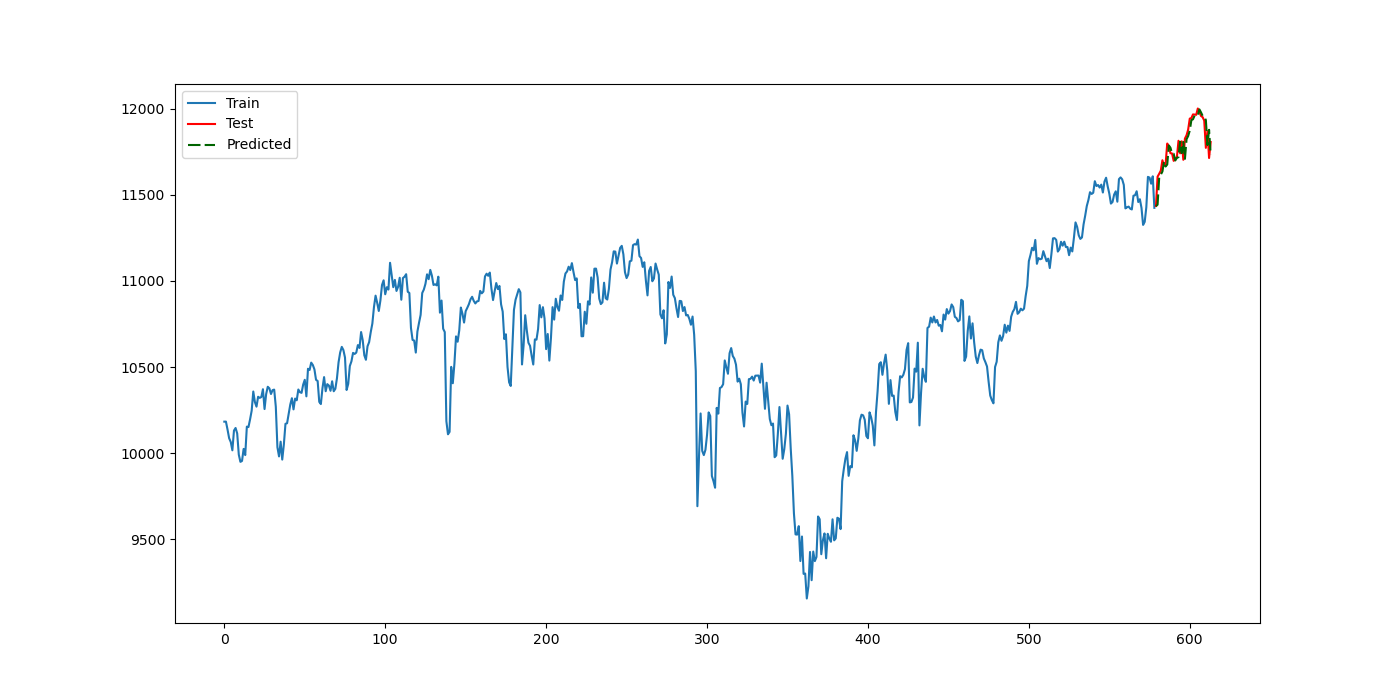
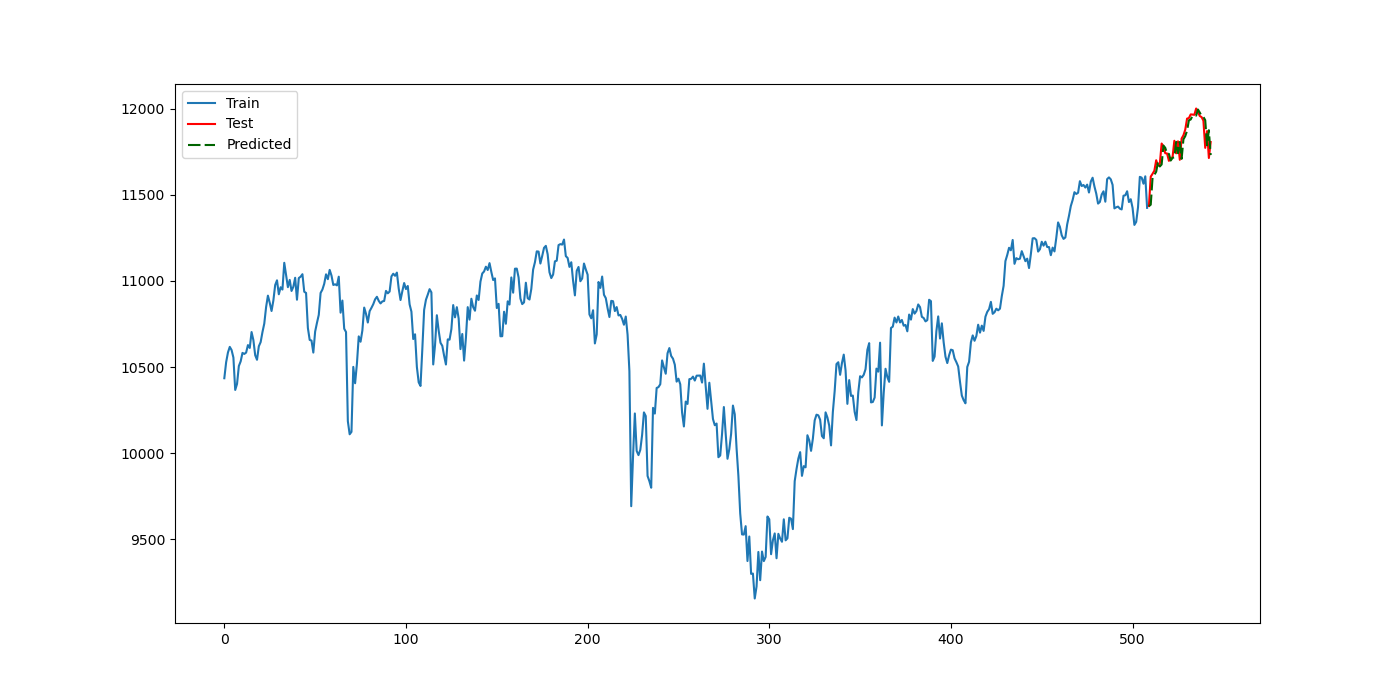
updating window size

diff --git a/code/Ass2/Ass2-Q4.py b/code/Ass2/Ass2-Q4.py
@@ -152,8 +152,8 @@ res = grangers_causation_matrix(
 )
 print("[INFO] saving Results of Granger Causality test on file...")
 with open(os.path.join(tbl_dir, a + "Granger_results.tex"), "w") as tf:
-    tf.write(res.to_latex(index=True))
-print(res)
+    tf.write(res.T.to_latex(index=True))
+# print(res)
 ss = ["Close"] + res.T.query("Causality>0").index.to_list()
 
 df1 = series[ss]
@@ -221,7 +221,7 @@ for i in range(12):
 print("[INFO] saving Results of Dickey-Fuller Test on file...")
 with open(os.path.join(tbl_dir, a + "ADF_results.tex"), "w") as tf:
     tf.write(ADF_result.to_latex(index=True))
-print(ADF_result)
+# print(ADF_result)
 
 
 ############################################################################
@@ -244,9 +244,35 @@ df["EMA_200"] = df_scaled["EMA_200"].diff()
 df["EMA_50"] = df_scaled["EMA_50"].diff()
 df.dropna(inplace=True)
 
-for name, column in df.iteritems():
-    adfuller_test(column, name=column.name)
-    print("\n")
+ADF_result = pd.DataFrame(
+    np.zeros([7, 12]),
+    columns=df.columns[0:12],
+    index=[
+        "ADF Statistic",
+        "p-value",
+        "#Lags Used",
+        "Number of Observations Used",
+        "Critical Value (1%)",
+        "Critical Value (5%)",
+        "Critical Value (10%)",
+    ],
+)
+for i in range(12):
+    data = df[df.columns[i]]
+
+    result1 = stattools.adfuller(data, autolag="AIC")
+    ADF_result[df.columns[i]] = pd.Series(
+        result1[0:4],
+        index=["ADF Statistic", "p-value", "#Lags Used", "Number of Observations Used"],
+    )
+    for j in enumerate(result1[4].items()):
+        ADF_result.iloc[4 + j[0], i] = round(j[1][1], 4)
+
+
+print("[INFO] saving Results of Dickey-Fuller Test on file...")
+with open(os.path.join(tbl_dir, a + "ADF_results_d.tex"), "w") as tf:
+    tf.write(ADF_result.to_latex(index=True))
+# print(ADF_result)
 
 ############################################################################
 #########                     Making VAR model                     #########
@@ -366,7 +392,7 @@ print("[INFO] RMS error: %.3f" % rmse)
 ############################################################################
 
 
-window = 500  # = 3 * 365
+window = 570  # = 3 * 365
 
 df_train, df_test = df[window:-nobs], df[-nobs:]
 

diff --git a/code/Ass2/Ass2-Q2.py b/code/Ass2/Ass2-Q2.py
@@ -251,14 +251,14 @@ print("[INFO] Test RMS error: %.3f" % rmse)
 
 X = series["Close"].values
 size = len(X) - nobs
-window = 500  # = 3 * 365
+window = 570  # = 3 * 365
 train, test = X[window:size], X[size : len(X)]
 history = [x for x in train]
 predictions = list()
 
 
 plt.figure()
-plt.plot(series["Close"][window:size], label="train set")
+plt.plot(series["Close"][window:-nobs], label="train set")
 plt.legend()
 plt.savefig(os.path.join(fig_dir, a + "Rolling_trainset.png"))
 
@@ -303,43 +303,3 @@ plt.plot(
 )
 plt.legend()
 plt.savefig(os.path.join(fig_dir, a + "Rolling_Forecast_1.png"))
-
-
-############################################################################
-#########         Rolling Window Forecast of ARIMA model.         ##########
-############################################################################
-# window = 2
-# size = len(X) - 100  # int(len(X) * 0.66)
-# train, test = X[0:size], X[size : len(X)]
-# model = ARIMA(train, order=(window, 1, 0))
-# model_fit = model.fit(disp=-1)
-# coef = model_fit.params
-# print(model_fit.summary())
-
-# history = train[len(train) - window : len(train)].tolist()
-# print("coef = ", coef)
-
-# predictions = list()
-# for t in range(len(test)):
-#     yhat = coef[0]  # constant term
-#     for d in range(window):
-#         yhat += coef[d + 1] * history[window - d - 1]  # y=c0+c1x1+c2x2+c3x3
-#     predictions.append(yhat)
-
-#     obs = test[t]  # observation
-#     history.append(obs)
-
-#     history = history[-window:]
-
-#     print("predicted=%f, expected=%f" % (yhat, obs))
-
-# rmse = np.sqrt(mean_squared_error(test, predictions))
-# print("Test RMSE: %.3f" % rmse)
-# # plot
-# plt.figure()
-# x_total = test
-# xpos = np.arange(len(test))
-# plt.plot(x_total, linewidth=2, label="Actual")
-# plt.plot(xpos, predictions, color="red", label="Forecast")
-# plt.legend(loc="upper left", fontsize=8)
-# plt.savefig(os.path.join(fig_dir, a + "4.png"))

diff --git a/manuscript/src/tables/Ass2/Ass2_Q4_ADF_results_d.tex b/manuscript/src/tables/Ass2/Ass2_Q4_ADF_results_d.tex
@@ -1,0 +1,13 @@
+\begin{tabular}{lrrrrrrrrrrrr}
+\toprule
+{} &        Close &           mom &         mom1 &         ROC\_5 &        ROC\_10 &        ROC\_15 &        ROC\_20 &        EMA\_10 &        EMA\_20 &        EMA\_50 &      EMA\_200 &           Oil \\
+\midrule
+ADF Statistic               &   -25.690334 & -1.213124e+01 &   -24.158831 & -1.063938e+01 & -9.747775e+00 & -6.997721e+00 & -8.059457e+00 & -1.344622e+01 & -1.072669e+01 & -6.827016e+00 &    -4.724133 & -8.916580e+00 \\
+p-value                     &     0.000000 &  1.733955e-22 &     0.000000 &  4.975393e-19 &  8.168235e-17 &  7.458689e-10 &  1.658045e-12 &  3.760487e-25 &  3.052667e-19 &  1.936259e-09 &     0.000076 &  1.068675e-14 \\
+\#Lags Used                  &     1.000000 &  1.100000e+01 &     1.000000 &  9.000000e+00 &  6.000000e+00 &  1.600000e+01 &  5.000000e+00 &  2.000000e+00 &  2.000000e+00 &  5.000000e+00 &     6.000000 &  1.000000e+01 \\
+Number of Observations Used &  1111.000000 &  1.101000e+03 &  1111.000000 &  1.103000e+03 &  1.106000e+03 &  1.096000e+03 &  1.107000e+03 &  1.110000e+03 &  1.110000e+03 &  1.107000e+03 &  1106.000000 &  1.102000e+03 \\
+Critical Value (1\%)         &    -3.436200 & -3.436300e+00 &    -3.436200 & -3.436300e+00 & -3.436300e+00 & -3.436300e+00 & -3.436300e+00 & -3.436300e+00 & -3.436300e+00 & -3.436300e+00 &    -3.436300 & -3.436300e+00 \\
+Critical Value (5\%)         &    -2.864100 & -2.864200e+00 &    -2.864100 & -2.864200e+00 & -2.864200e+00 & -2.864200e+00 & -2.864200e+00 & -2.864100e+00 & -2.864100e+00 & -2.864200e+00 &    -2.864200 & -2.864200e+00 \\
+Critical Value (10\%)        &    -2.568200 & -2.568200e+00 &    -2.568200 & -2.568200e+00 & -2.568200e+00 & -2.568200e+00 & -2.568200e+00 & -2.568200e+00 & -2.568200e+00 & -2.568200e+00 &    -2.568200 & -2.568200e+00 \\
+\bottomrule
+\end{tabular}

diff --git a/manuscript/src/tables/Ass2/Ass2_Q3_ADF_results.tex b/manuscript/src/tables/Ass2/Ass2_Q3_ADF_results.tex
@@ -1,0 +1,13 @@
+\begin{tabular}{lrrrrrrrrr}
+\toprule
+{} &        Close &        Volume &           mom &         mom1 &          mom2 &         mom3 &         ROC\_5 &        ROC\_10 &        ROC\_15 \\
+\midrule
+ADF Statistic               &    -1.085444 & -1.488543e+01 & -1.213421e+01 &   -38.465692 & -8.148701e+00 &   -20.973935 & -1.061972e+01 & -9.753497e+00 & -6.995050e+00 \\
+p-value                     &     0.720841 &  1.586187e-27 &  1.708346e-22 &     0.000000 &  9.828504e-13 &     0.000000 &  5.555706e-19 &  7.900978e-17 &  7.571421e-10 \\
+\#Lags Used                  &     2.000000 &  4.000000e+00 &  1.100000e+01 &     0.000000 &  2.000000e+01 &     2.000000 &  9.000000e+00 &  6.000000e+00 &  1.600000e+01 \\
+Number of Observations Used &  1111.000000 &  1.109000e+03 &  1.102000e+03 &  1113.000000 &  1.093000e+03 &  1111.000000 &  1.104000e+03 &  1.107000e+03 &  1.097000e+03 \\
+Critical Value (1\%)         &    -3.436200 & -3.436300e+00 & -3.436300e+00 &    -3.436200 & -3.436300e+00 &    -3.436200 & -3.436300e+00 & -3.436300e+00 & -3.436300e+00 \\
+Critical Value (5\%)         &    -2.864100 & -2.864100e+00 & -2.864200e+00 &    -2.864100 & -2.864200e+00 &    -2.864100 & -2.864200e+00 & -2.864200e+00 & -2.864200e+00 \\
+Critical Value (10\%)        &    -2.568200 & -2.568200e+00 & -2.568200e+00 &    -2.568200 & -2.568200e+00 &    -2.568200 & -2.568200e+00 & -2.568200e+00 & -2.568200e+00 \\
+\bottomrule
+\end{tabular}

diff --git a/code/Tutorials/Tutorial-62.py b/code/Tutorials/Tutorial-62.py
@@ -170,8 +170,8 @@ df_differenced = df_differenced.diff().dropna()
 for name, column in df_differenced.iteritems():
     adfuller_test(column, name=column.name)
     print("\n")
-    
-    
+
+
 # select the order of VAR model
 AIC = list()
 BIC = list()
@@ -185,7 +185,7 @@ for i in [1, 2, 3, 4, 5, 6, 7, 8, 9]:
     print("BIC : ", result.bic)
     print("FPE : ", result.fpe)
     print("HQIC: ", result.hqic, "\n")
-#plt.plot(np.arange(1, 10), AIC, label="AIC")
+# plt.plot(np.arange(1, 10), AIC, label="AIC")
 plt.plot(np.arange(1, 10), AIC, label="BIC")
 plt.plot(4, AIC[4], marker=(5, 0), label="BIC")
 
@@ -194,7 +194,7 @@ plt.plot(4, AIC[4], marker=(5, 0), label="BIC")
 plt.plot(AIC)
 plt.show()
 model_fitted = model.fit(4)
-model_fitted.summary()
+print(model_fitted.summary())
 
 # 6. Check for Serial Correlation of Residuals (Errors) using Durbin Watson Statistic
 # Serial correlation of residuals is used to check if there is any leftover pattern in the residuals (errors).

diff --git a/code/Ass2/Ass2-Q3.py b/code/Ass2/Ass2-Q3.py
@@ -248,8 +248,7 @@ print("[INFO] RMS error: %.3f" % rmse)
 ############################################################################
 
 X = series["Close"].values
-size = len(X) - nobs
-window = 500  # = 3 * 365
+window = 570  # = 3 * 365
 
 df_train, df_test = df[window:-nobs], df[-nobs:]
 exog_train, exog_test = exog[window:-nobs], exog[-nobs:]
@@ -258,7 +257,7 @@ history_exog = exog_train
 predictions = list()
 
 plt.figure()
-plt.plot(series["Close"][window:size], label="train set")
+plt.plot(series["Close"][window:-nobs], label="train set")
 plt.legend()
 plt.savefig(os.path.join(fig_dir, a + "Rolling_trainset.png"))
 

diff --git a/manuscript/src/tables/Ass2/Ass2_Q3_Granger_results.tex b/manuscript/src/tables/Ass2/Ass2_Q3_Granger_results.tex
@@ -1,0 +1,9 @@
+\begin{tabular}{lrrrrrrrrr}
+\toprule
+{} &  Close &   Volume &      mom &     mom1 &     mom2 &    mom3 &   ROC\_5 &   ROC\_10 &   ROC\_15 \\
+\midrule
+min\_p\_value &    1.0 &   0.1634 &   0.0001 &   0.0033 &   0.0013 &  0.0919 &  0.0485 &   0.0068 &   0.0172 \\
+lag         &    1.0 &  22.0000 &  28.0000 &  30.0000 &  30.0000 &  1.0000 &  1.0000 &  19.0000 &  22.0000 \\
+Causality   &    0.0 &   0.0000 &   1.0000 &   1.0000 &   1.0000 &  0.0000 &  1.0000 &   1.0000 &   1.0000 \\
+\bottomrule
+\end{tabular}
